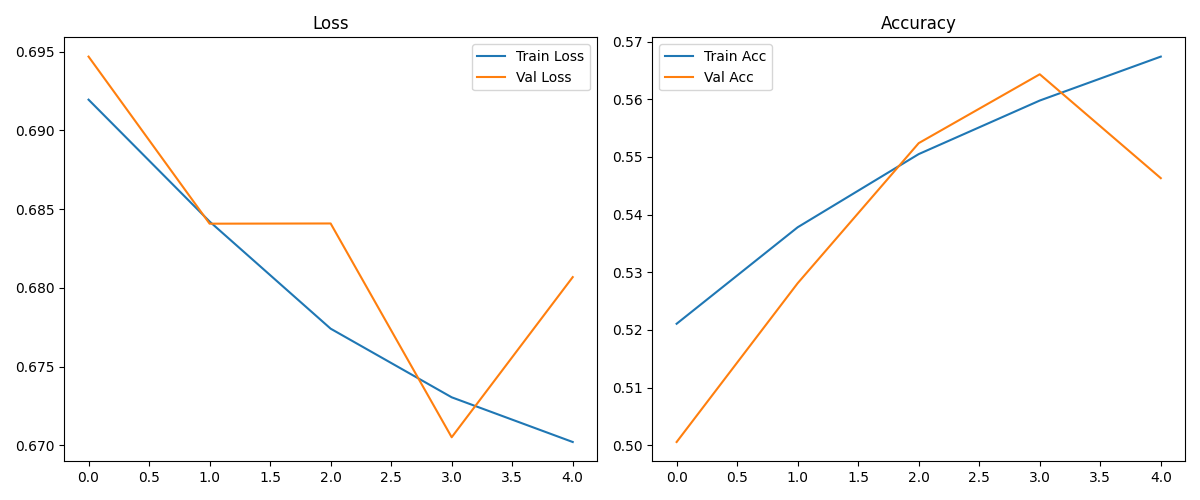
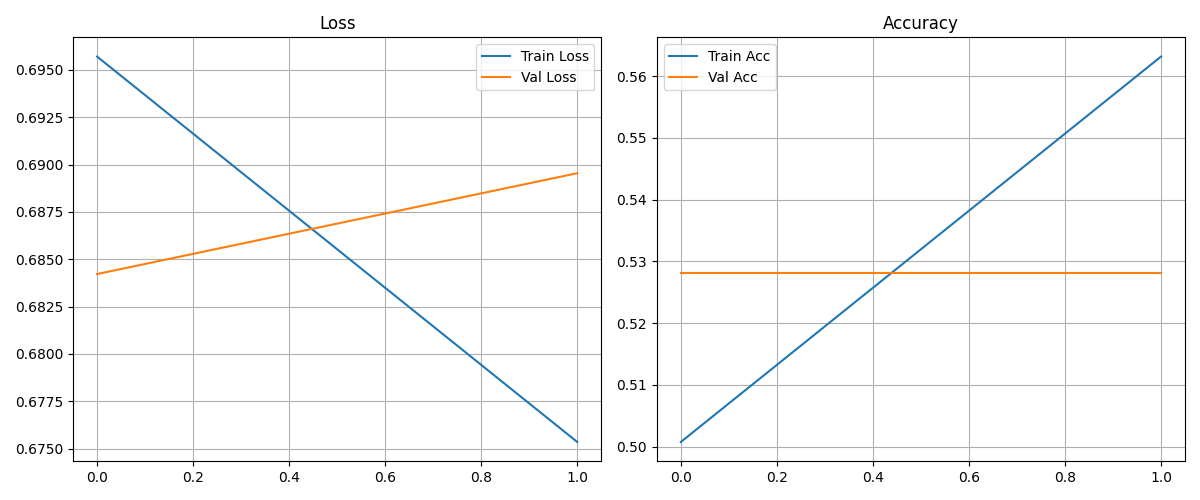
add kmer

diff --git a/scripts/main.py b/scripts/main.py
@@ -1,3 +1,6 @@
+
+
+import pandas as pd
 import torch
 from torch.utils.data import DataLoader
 import torch.nn as nn
@@ -5,8 +8,9 @@ from torch.optim import Adam
 
 from omegaconf.omegaconf import OmegaConf
 
-from dataset import DNADataset
-from utils import plot_metrics, compute_accuracy, show_attention_matrix
+from dataset_kmer import DNAKmerDataset, build_fixed_kmer_vocab
+from utils import plot_metrics, compute_accuracy, show_attention_matrix, \
+    deduplicate_datasets, plot_confusion_matrix, create_precision_recall_curve
 from transformer_model import CustomTransformerClassifier as DNAClassifier
 
 device = torch.device("cuda" if torch.cuda.is_available() else "cpu")
@@ -15,24 +19,38 @@ cfg = OmegaConf.load("../configs/train.yaml")
 
 def train():
 
-    train_data = DNADataset(cfg.train_file)
-    val_data = DNADataset(cfg.val_file)
-    test_data = DNADataset(cfg.test_file)
+    #train_data = DNADataset(cfg.train_file)
+    #val_data = DNADataset(cfg.val_file)
+    #test_data = DNADataset(cfg.test_file)
+
+
+    deduplicate_datasets(cfg.train_file, cfg.test_file, cfg.val_file)
+
+    k = cfg.kmer_size
+    vocab = build_fixed_kmer_vocab(k)
+    print(vocab)
+    print(f"Vocabulary size: {len(vocab)}")
+    cfg.vocab_size = len(vocab)
+    train_data = DNAKmerDataset(cfg.train_file, k, vocab)
+    val_data = DNAKmerDataset(cfg.val_file, k, vocab)
+    test_data = DNAKmerDataset(cfg.test_file, k, vocab)
+
+    print("Before encoding:")
+    train_df = pd.read_csv(cfg.train_file)    
+    trsequences = train_df['query_subseq'].tolist()
+    print(trsequences[0])  
+
+    print("After encoding:")
+    print(train_data[0])
 
     print(f"Train data: {len(train_data)}, Validation data: {len(val_data)}, Test data:  {len(test_data)}")
-    
-    #train_data = DNADataset(D_PATH + "H3K27me3_train_read.csv", k=1)
-    #val_data = DNADataset(D_PATH + "H3K27me3_val_read.csv", k=1)
 
     train_loader = DataLoader(train_data, batch_size=cfg.batch_size, shuffle=True)
     val_loader = DataLoader(val_data, batch_size=cfg.batch_size)
     test_loader = DataLoader(test_data, batch_size=cfg.batch_size)
 
-    #vocab_size = max(train_data.get_vocab_size(), val_data.get_vocab_size())
-    #seq_len = len(train_data[0][0])
-
     model = DNAClassifier(seq_len=cfg.seq_len, 
-                          vocab_size=cfg.vocab_size, 
+                          vocab_size=len(vocab), 
                           d_model=cfg.d_model, 
                           n_heads=cfg.n_heads, 
                           ffn_dim=cfg.ffn_dim, 
@@ -68,13 +86,21 @@ def train():
         # Evaluation
         model.eval()
         val_loss, val_acc = 0, 0
+        pred_scores = []
+        predictions = []
+        ground_truth = []
         with torch.no_grad():
             for x, y in val_loader:
                 x, y = x.to(device), y.to(device).float()
                 logits, _ = model(x)
                 loss = loss_fn(logits, y)
                 val_loss += loss.item()
-                val_acc += compute_accuracy(torch.sigmoid(logits), y)
+                pred = torch.sigmoid(logits)
+                pred_scores.extend(pred.cpu().numpy())
+                ints = (pred > 0.5).int()
+                predictions.extend(ints.cpu().numpy())
+                ground_truth.extend(y.cpu().numpy())
+                val_acc += compute_accuracy(pred, y)
 
         val_losses.append(val_loss / len(val_loader))
         val_accs.append(val_acc / len(val_loader))
@@ -84,6 +110,9 @@ def train():
     # Plot
     print("Evaluting on test data")
     plot_metrics(train_losses, val_losses, train_accs, val_accs, cfg.plot_acc_loss)
+    plot_confusion_matrix(predictions, ground_truth, labels=[0, 1], output_path=cfg.plot_confusion_matrix)
+    create_precision_recall_curve(ground_truth, pred_scores, output_path=cfg.plot_precision_recall_curve)
+
     #evaluate_test(model, test_loader, cfg)
 
 

diff --git a/scripts/utils.py b/scripts/utils.py
@@ -1,7 +1,32 @@
 import matplotlib.pyplot as plt
-from sklearn.metrics import accuracy_score
+from sklearn.metrics import accuracy_score, confusion_matrix, ConfusionMatrixDisplay, \
+    precision_recall_curve, average_precision_score
 import numpy as np
+import pandas as pd
 import seaborn as sns
+
+
+def plot_confusion_matrix(y_true, y_pred, labels=None, output_path="confusion_matrix.png"):
+    """
+    Plots a confusion matrix using seaborn heatmap.
+    
+    Parameters:
+    - y_true: True labels
+    - y_pred: Predicted labels
+    - labels: List of class labels (optional)
+    - output_path: Path to save the confusion matrix image
+    """
+    cm = confusion_matrix(y_true, y_pred, labels=labels)
+    disp = ConfusionMatrixDisplay(confusion_matrix=cm, display_labels=labels)
+    
+    plt.figure(figsize=(8, 6))
+    sns.heatmap(cm, annot=True, fmt='d', cmap='Blues', xticklabels=labels, yticklabels=labels)
+    plt.title("Confusion Matrix")
+    plt.xlabel("Predicted")
+    plt.ylabel("True")
+    plt.tight_layout()
+    plt.savefig(output_path)
+
 
 def plot_metrics(train_losses, val_losses, train_accs, val_accs, output_path="metrics.png"):
     plt.figure(figsize=(12, 5))
@@ -10,20 +35,57 @@ def plot_metrics(train_losses, val_losses, train_accs, val_accs, output_path="me
     plt.plot(train_losses, label="Train Loss")
     plt.plot(val_losses, label="Val Loss")
     plt.legend()
+    plt.grid(True)
     plt.title("Loss")
     
     plt.subplot(1, 2, 2)
     plt.plot(train_accs, label="Train Acc")
     plt.plot(val_accs, label="Val Acc")
     plt.legend()
+    plt.grid(True)
     plt.title("Accuracy")
     
     plt.tight_layout()
     plt.savefig(output_path)
+    
+
+def create_precision_recall_curve(y_true, y_scores, output_path="precision_recall_curve.png"):
+    precision, recall, thresholds = precision_recall_curve(y_true, y_scores)
+    avg_precision = average_precision_score(y_true, y_scores)
+    plt.figure()
+    plt.plot(recall, precision, label=f'AP = {avg_precision:.2f}')
+    plt.xlabel("Recall")
+    plt.ylabel("Precision")
+    plt.title("Precision-Recall Curve")
+    plt.legend()
+    plt.grid(True)
+    plt.show()
+    plt.savefig(output_path)
+
 
 def compute_accuracy(preds, labels):
     preds = (preds > 0.5).int()
     return accuracy_score(labels.cpu(), preds.cpu())
+
+
+def deduplicate_datasets(path_tr, path_te, path_val):
+    """
+    Deduplicates training, validation, and test datasets.
+    """
+    tr_set = set(pd.read_csv(path_tr)['query_subseq'].tolist())
+    te_set = set(pd.read_csv(path_te)['query_subseq'].tolist())
+    val_set = set(pd.read_csv(path_val)['query_subseq'].tolist())
+
+    tr_te = tr_set.intersection(te_set)
+    tr_val = tr_set.intersection(val_set)
+    te_val = te_set.intersection(val_set)
+
+    print(f"Training and Test intersection: {len(tr_te)}")
+    print(f"Training and Validation intersection: {len(tr_val)}")
+    print(f"Test and Validation intersection: {len(te_val)}")
+
+    if len(tr_te) > 0 or len(tr_val) > 0:
+        raise ValueError("Training set has overlaps with Test or Validation sets. Please check your datasets.")
 
 
 def show_attention_matrix(attention_weights, save_path, num_heads=4, num_tokens=1000, tokens=None):

diff --git a/scripts/dataset_kmer.py b/scripts/dataset_kmer.py
@@ -1,42 +1,47 @@
 import torch
 from torch.utils.data import Dataset
+from typing import List, Dict
+from itertools import product
+
 import pandas as pd
+from pathlib import Path
 
-def kmer_tokenizer(seq, k=6):
-    vocab = {}
-    tokens = []
-    for i in range(len(seq) - k + 1):
-        kmer = seq[i:i + k]
-        if kmer not in vocab:
-            vocab[kmer] = len(vocab)
-        tokens.append(vocab[kmer])
-    return tokens, vocab
 
-class DNADataset(Dataset):
-    def __init__(self, csv_file, k=3):
-        df = pd.read_csv(csv_file)
-        self.k = k
-        self.labels = df['labels'].astype(int).tolist()
-        self.vocab = {}
-        self.sequences = [self.encode(seq) for seq in df['query_subseq']]
+def generate_all_kmers(k: int) -> List[str]:
+    """Generate all possible DNA k-mers using A, C, G, T."""
+    return [''.join(p) for p in product("ACGT", repeat=k)]
 
-    def encode(self, seq):
-        tokens = []
-        for i in range(len(seq) - self.k + 1):
-            kmer = seq[i:i+self.k]
-            if kmer not in self.vocab:
-                self.vocab[kmer] = len(self.vocab)
-            tokens.append(self.vocab[kmer])
-        return tokens
+
+def generate_kmers_from_sequence(sequence: str, k: int) -> List[str]:
+    """Split a DNA sequence into overlapping k-mers."""
+    return [sequence[i:i+k] for i in range(len(sequence) - k + 1)]
+
+
+def build_fixed_kmer_vocab(k: int) -> Dict[str, int]:
+    """Generate fixed vocab with all possible k-mers."""
+    vocab = {'<PAD>': 0, '<UNK>': 1}
+    all_kmers = generate_all_kmers(k)
+    vocab.update({kmer: idx + 2 for idx, kmer in enumerate(all_kmers)})
+    return vocab
+
+
+def encode_sequence(sequence: str, k: int, vocab: Dict[str, int]) -> List[int]:
+    kmers = generate_kmers_from_sequence(sequence, k)
+    return [vocab.get(kmer, vocab['<UNK>']) for kmer in kmers]
+
+
+class DNAKmerDataset(Dataset):
+    def __init__(self, path_sequences: Path, k: int, vocab: Dict[str, int]):
+        df = pd.read_csv(path_sequences)
+        self.sequences = df['query_subseq'].tolist()
+        self.encoded_sequences = [encode_sequence(seq, k, vocab) for seq in self.sequences]
+        self.labels = torch.tensor(df['labels'].astype(int).tolist(), dtype=torch.long)
+        
 
     def __len__(self):
-        return len(self.labels)
+        return len(self.encoded_sequences)
 
     def __getitem__(self, idx):
-        return (
-            torch.tensor(self.sequences[idx], dtype=torch.long),
-            torch.tensor(self.labels[idx], dtype=torch.long)
-        )
-
-    def get_vocab_size(self):
-        return len(self.vocab)
+        sequence = torch.tensor(self.encoded_sequences[idx], dtype=torch.long)
+        label = self.labels[idx]
+        return sequence, label
